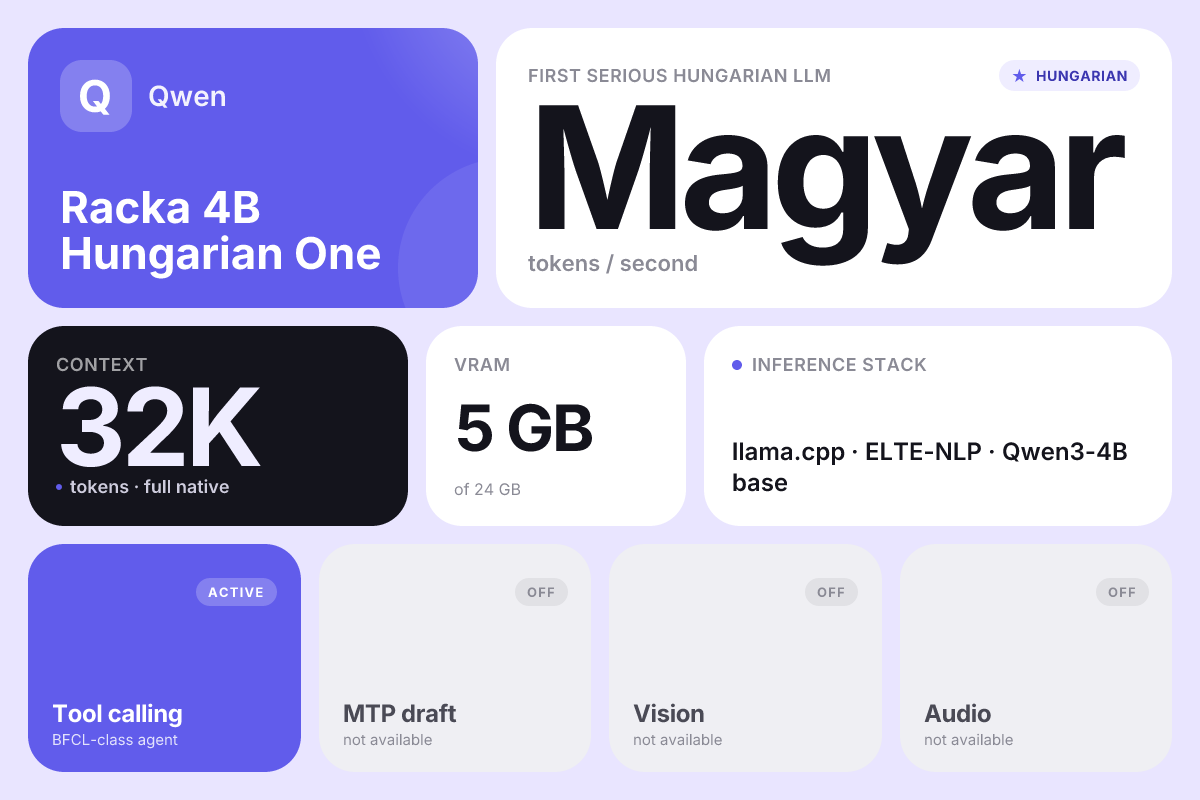
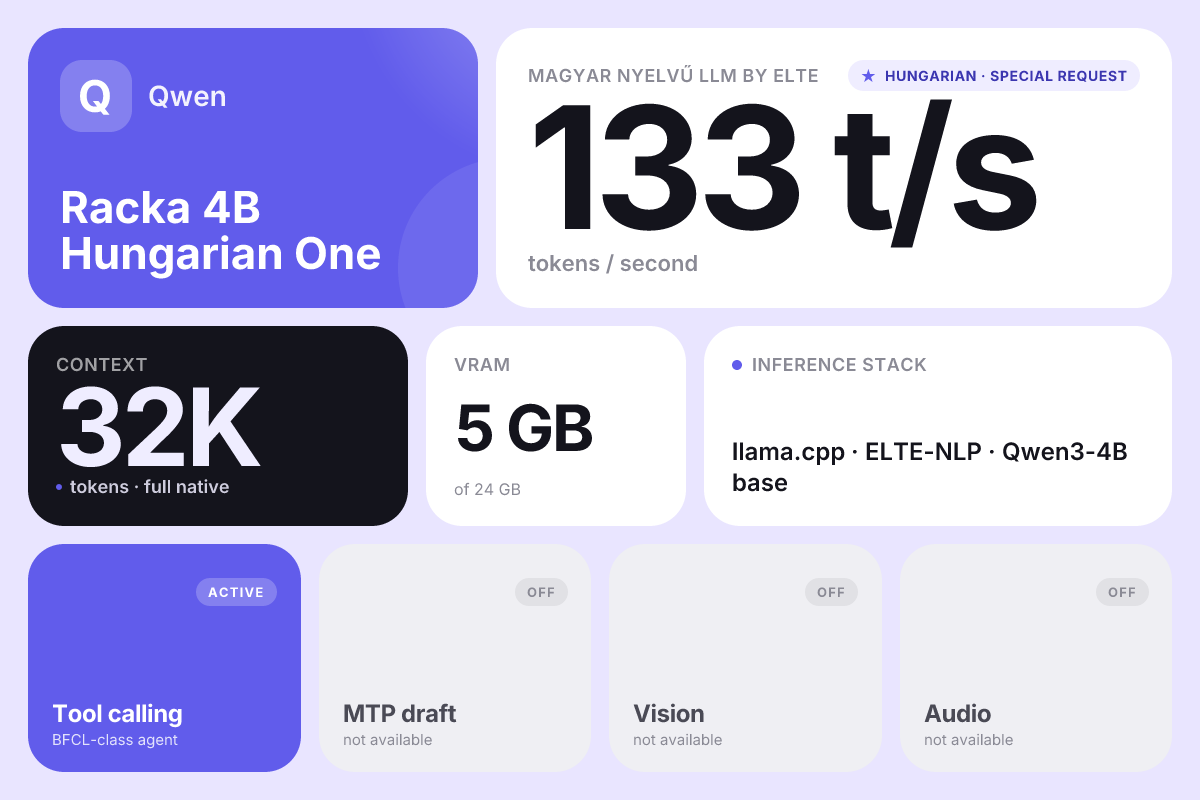
racka4bhuone v1.0.1: bench 133 t/s + new "Special Request" category
Bench validated on Olares One (3 Hungarian prompts):
- Budapest poem 134.85 t/s
- Quantum physics explanation 133.24 t/s
- Paprikás csirke vs pörkölt 132.73 t/s
AVG: 133.6 t/s, 3/3 finish_reason=stop, prompt processing ~1700 t/s

Hungarian output fluent across creative + technical + culinary domains.

Bento hero updated: "Magyar" placeholder → "133 t/s" with
"Magyar nyelvű LLM by ELTE" label. Badge: "hungarian · special request".

New category "Special Request" for community-requested apps. Icon
registered in src/index.ts so Olares Market sidebar renders it.

Changed region(s): [[0.4317, 0.0625, 0.9558, 0.3438]]

diff --git a/src/index.ts b/src/index.ts
@@ -1,5 +1,4 @@
 import catalog from './catalog.json';
-import icons from './icons.json';
 import charts from './charts.json';
 
 interface Env {}
@@ -20,66 +19,109 @@ function handleHash(url: URL): Response {
   const version = url.searchParams.get('version') || '1.12.3';
   return json({
     hash: catalog.hash,
-    last_updated: new Date().toISOString(),
+    last_updated: isoNanos(),
     version,
   });
 }
 
 // GET /api/v1/appstore/info?version=X
+// Go market service strict-parses timestamps as `2006-01-02T15:04:05.000000000Z` (9-digit nanos).
+// JavaScript `toISOString()` emits only 3-digit ms — pad to 9 to be parseable by the Go syncer.
+function isoNanos(d: Date = new Date()): string {
+  return d.toISOString().replace(/\.(\d+)Z$/, (_m, ms) => `.${ms.padEnd(9, '0')}Z`);
+}
+
 function handleInfo(url: URL): Response {
   const version = url.searchParams.get('version') || '1.12.3';
-  const now = new Date().toISOString();
+  const now = isoNanos();
 
-  // Build app ID list for topic_lists (comma-separated)
-  const appIds = Object.keys(catalog.summaries).join(',');
+  // Studio sidebar: menuList = response.tags. categoryMenu = menuList filtered by app categories.
+  // Custom category names DO work as long as they appear in both the apps' categories array
+  // and our tags object (verified against beclab/Olares menu store source code).
+  const categoryIcons: Record<string, string> = {
+    'LLM Chat':    'https://app.cdn.olares.com/icons/market/sidebar/neurology.svg',
+    'AI Agents':   'https://app.cdn.olares.com/icons/market/sidebar/neurology.svg',
+    'Vision':      'https://app.cdn.olares.com/icons/market/sidebar/neurology.svg',
+    'Audio':       'https://app.cdn.olares.com/icons/market/sidebar/neurology.svg',
+    'TTS':         'https://app.cdn.olares.com/icons/market/sidebar/neurology.svg',
+    'Music':       'https://app.cdn.olares.com/icons/market/sidebar/neurology.svg',
+    'Coding':      'https://app.cdn.olares.com/icons/market/sidebar/neurology.svg',
+    'Image Gen':   'https://app.cdn.olares.com/icons/market/sidebar/neurology.svg',
+    'Uncensored':  'https://app.cdn.olares.com/icons/market/sidebar/neurology.svg',
+    'Special Request': 'https://app.cdn.olares.com/icons/market/sidebar/neurology.svg',
+  };
+
+  // Group apps by category (multi-category supported)
+  const apps = catalog.summaries as Record<string, { id: string; name: string }>;
+  const details = catalog.details as Record<string, { categories?: string[] }>;
+  const byCategory: Record<string, string[]> = {};
+  for (const [id, d] of Object.entries(details)) {
+    const cats = (d.categories || []) as string[];
+    for (const c of cats) {
+      if (!byCategory[c]) byCategory[c] = [];
+      byCategory[c].push(id);
+    }
+  }
+
+  const cats = (catalog.categories || []) as string[];
+  const pages: Record<string, { category: string; content: string }> = {};
+  const topicLists: Record<string, { name: string; type: string; content: string; title: Record<string, string> }> = {};
+  const tags: Record<string, unknown> = {};
+
+  cats.forEach((cat, i) => {
+    const topicName = `Featured apps in ${cat}`;
+    pages[cat] = {
+      category: cat,
+      content: JSON.stringify([
+        { type: 'Topic', id: topicName },
+        { type: 'Default Topic', id: 'Newest' },
+      ]),
+      source: 0,
+      updated_at: now,
+      createdAt: '2025-11-07T05:14:01.765Z',
+    };
+    topicLists[topicName] = {
+      name: topicName,
+      type: 'Category',
+      content: (byCategory[cat] || []).join(','),
+      title: { 'en-US': topicName, 'zh-CN': topicName },
+      source: 0,
+      updated_at: now,
+      createdAt: '2025-11-07T05:14:01.765Z',
+    };
+    tags[cat] = {
+      _id: `cat_${cat.toLowerCase().replace(/\s+/g, '_')}`,
+      name: cat,
+      title: { 'en-US': cat, 'zh-CN': cat },
+      icon: categoryIcons[cat] || 'https://app.cdn.olares.com/icons/market/sidebar/neurology.svg',
+      sort: 10 + i,
+      source: 0,
+      updated_at: now,
+      createdAt: '2025-11-07T05:14:01.765Z',
+    };
+  });
 
   return json({
     version,
     hash: catalog.hash,
     last_updated: now,
     data: {
-      apps: catalog.summaries,
+      apps,
       recommends: {},
-      pages: {
-        AI: {
-          category: 'AI',
-          content: JSON.stringify([
-            { type: 'Topic', id: 'Featured apps in AI' },
-            { type: 'Default Topic', id: 'Newest' },
-          ]),
-        },
-      },
+      pages,
       topics: {},
-      topic_lists: {
-        'Featured apps in AI': {
-          name: 'Featured apps in AI',
-          type: 'Category',
-          content: appIds,
-          title: { 'en-US': 'Featured apps in AI', 'zh-CN': 'AI精选应用' },
-        },
-      },
-      tops: [],
+      topic_lists: topicLists,
+      tops: (catalog as { tops?: unknown[] }).tops || [],
       latest: catalog.latest,
-      tags: {
-        AI: {
-          _id: 'ai_custom_source',
-          name: 'AI',
-          title: { 'en-US': 'AI', 'zh-CN': 'AI' },
-          icon: 'https://app.cdn.olares.com/icons/market/sidebar/neurology.svg',
-          sort: 7,
-          source: 0,
-          updated_at: now,
-          createdAt: '2025-11-07T05:14:01.765Z',
-        },
-      },
+      tags,
     },
     stats: {
       appstore_data: {
-        apps: Object.keys(catalog.summaries).length,
-        pages: 1,
+        apps: Object.keys(apps).length,
+        pages: Object.keys(pages).length,
         recommends: 0,
-        tags: 1,
-        topic_lists: 1,
+        tags: Object.keys(tags).length,
+        topic_lists: Object.keys(topicLists).length,
         topics: 0,
       },
       last_updated: now,
@@ -152,22 +194,7 @@ export default {
       return json({ error: 'Chart not found' }, 404);
     }
 
-    // Serve icons
-    if (path.startsWith('/icons/') && request.method === 'GET') {
-      const name = path.slice('/icons/'.length).replace(/\.png$/, '');
-      const data = (icons as Record<string, string>)[name];
-      if (data) {
-        const binary = Uint8Array.from(atob(data), c => c.charCodeAt(0));
-        return new Response(binary, {
-          headers: {
-            'Content-Type': 'image/png',
-            'Cache-Control': 'public, max-age=86400',
-            'Access-Control-Allow-Origin': '*',
-          },
-        });
-      }
-      return json({ error: 'Icon not found' }, 404);
-    }
+    // /icons/ and /screenshots/ are served by Cloudflare Static Assets (see wrangler.toml [assets])
 
     // Health check
     if (path === '/' || path === '/health') {
